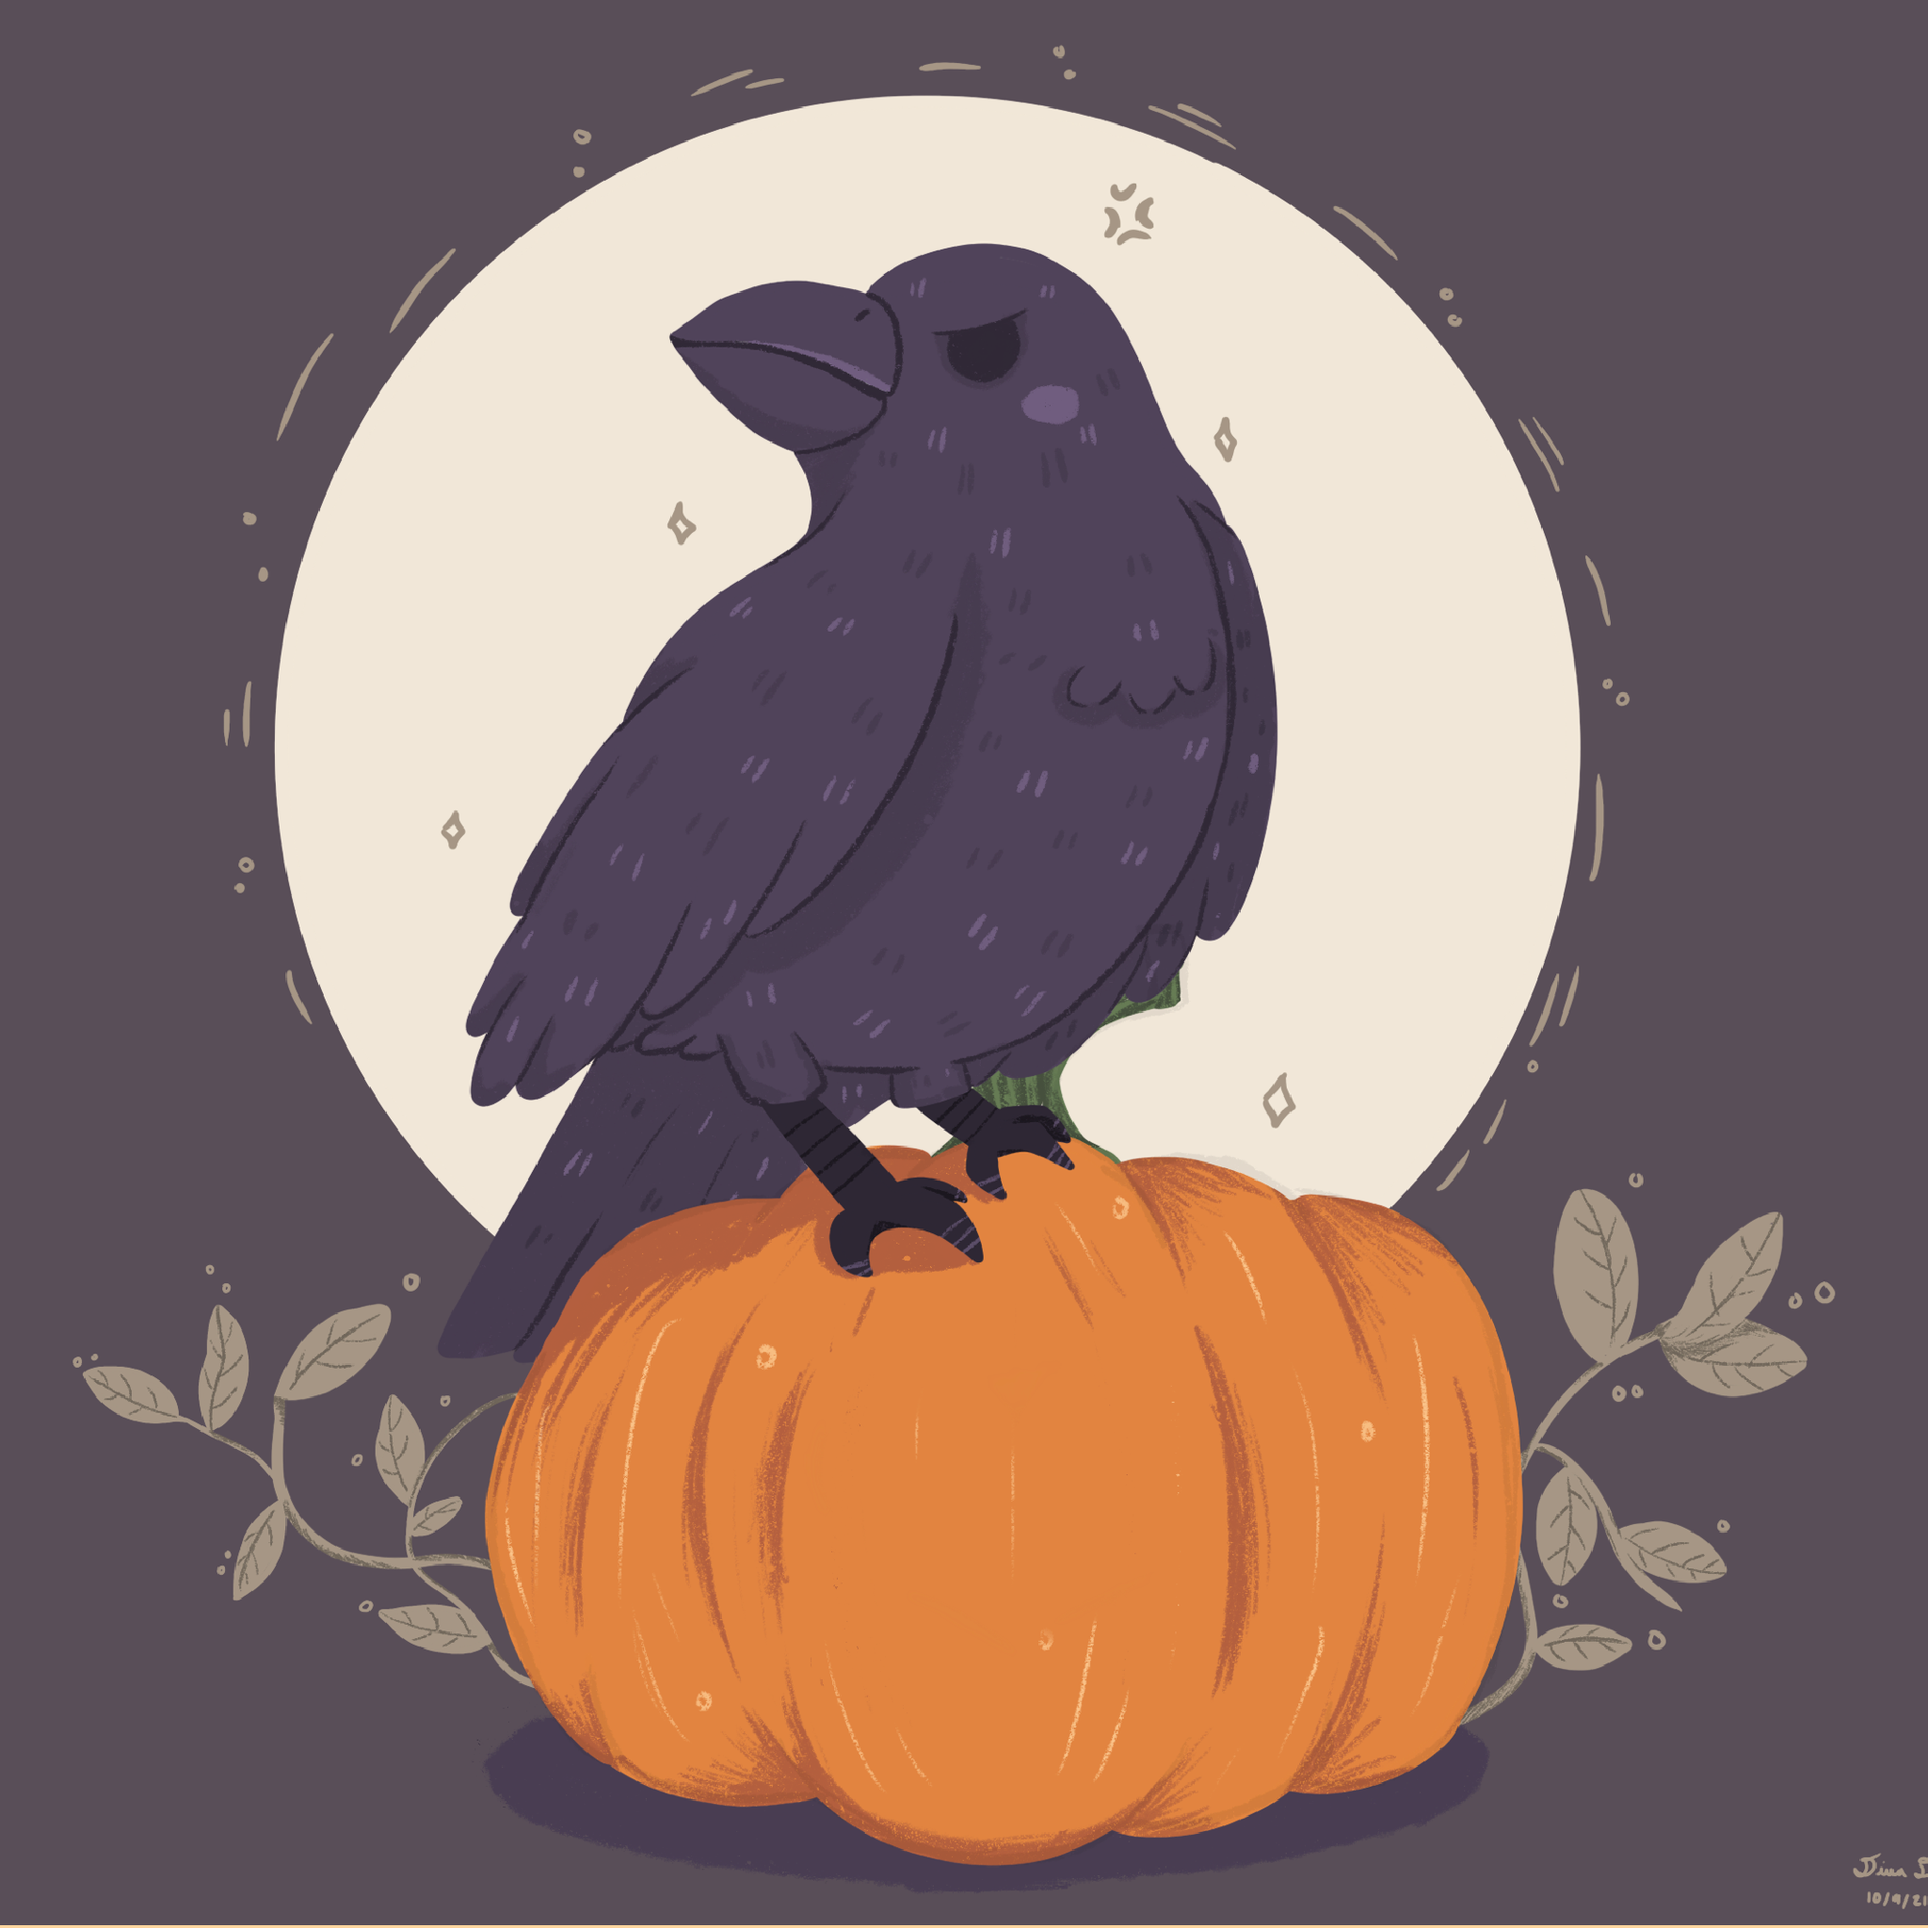
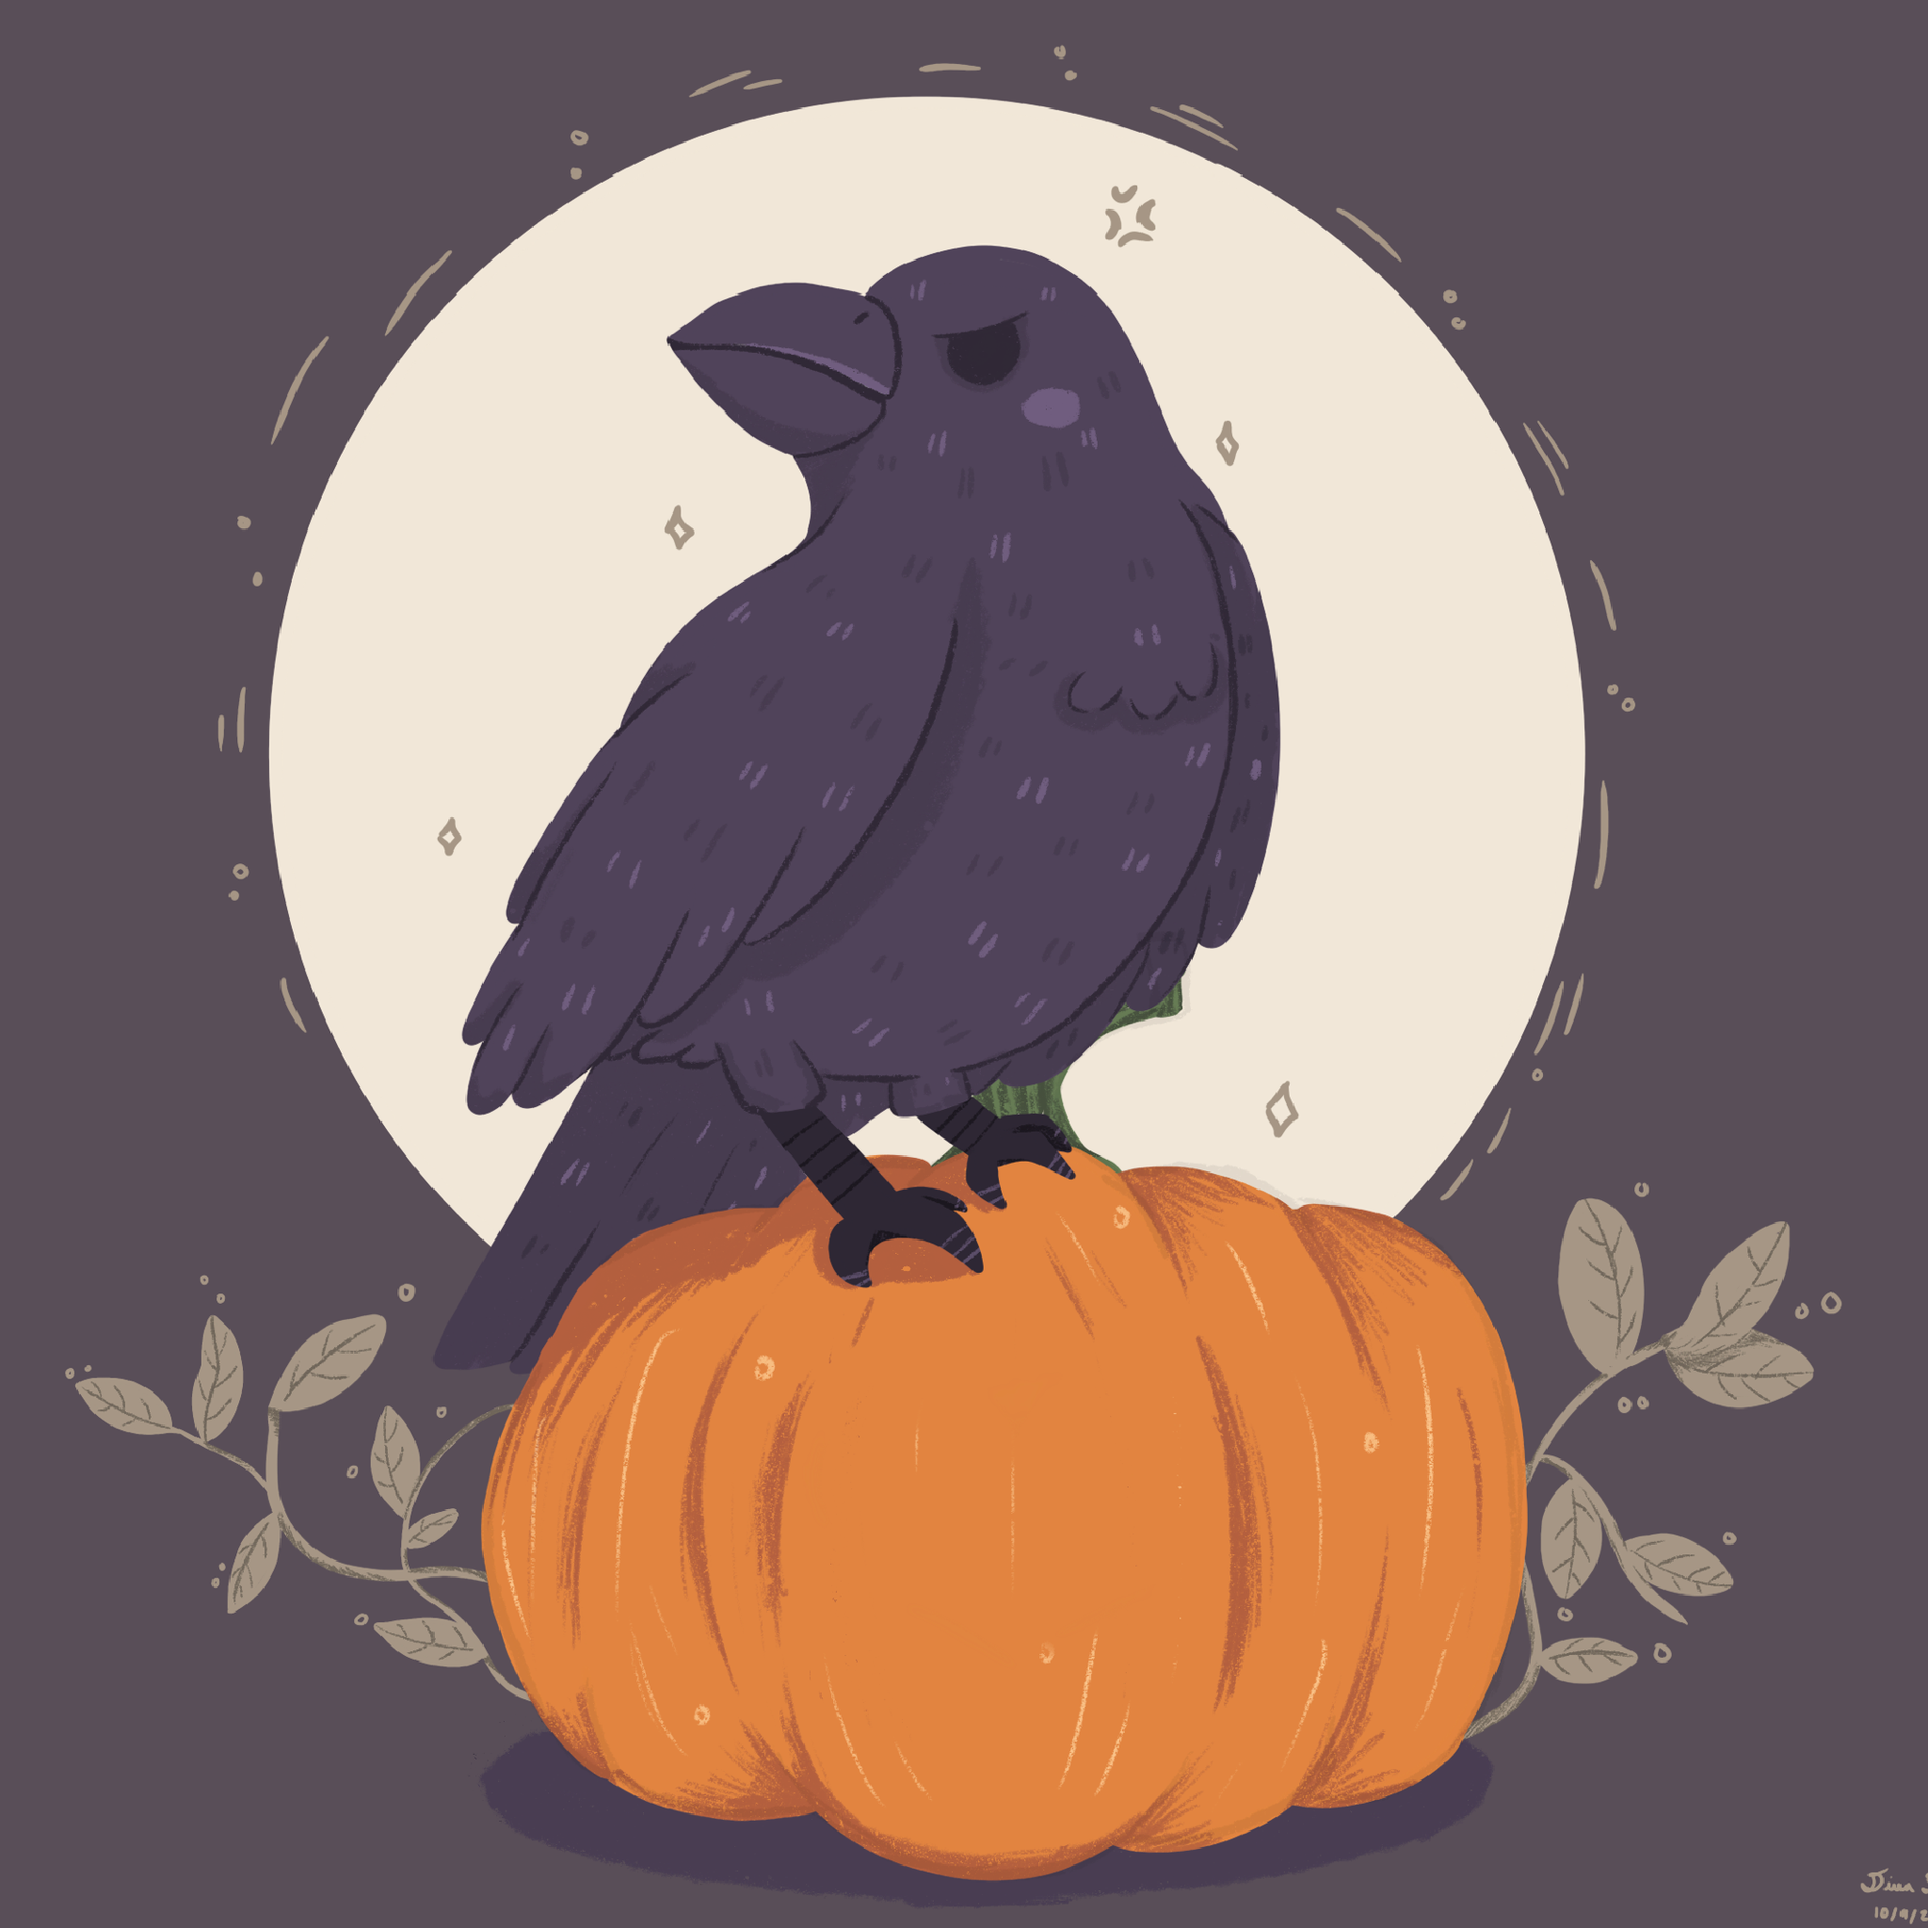
fixed leaves

diff --git a/index.html b/index.html
@@ -37,7 +37,7 @@
   </head>
   <body>
     <!-- nav -->
-    <header class="py-2 shadow p-3 mb-5" style="z-index: 3">
+    <header class="py-2 shadow p-3 bgimage-leaves h-auto" style="z-index: 3;background-color: #1c1c1c;">
       <nav
         class="navbar py-2 border-top-0 border-left-0 border-right-0 border-bottom border-warning navbar-dark navbar-expand-lg h-auto fixed-top py-2 text-uppercase"
         style="background-color: #1c1c1c; opacity: 90%"
@@ -96,7 +96,7 @@
               <li
                 class="nav-item border border-top-0 border-bottom-0 border-left-0 border-warning px-4"
               >
-                <a class="nav-link active" aria-current="page" href="#"
+                <a class="nav-link active" aria-current="page" href="#contact"
                   >Contact</a
                 >
               </li>
@@ -228,7 +228,7 @@
     <!-- Hobbies -->
 
     <section
-      class="sec pt-2 pb-5"
+      class="sec pt-2 pb-5 h-auto bgimage-leaves"
       style="background-color: #1c1c1c;"
       id="hobbies"
     >
@@ -328,7 +328,7 @@
 
     <section
       class="sec p-1 py-5"
-      style="background-color: #f9f9fa"
+      style="background-color: white"
       style="z-index: 3"
       id="projects"
     >
@@ -373,9 +373,9 @@
       </section>
        
       <!-- Art  -->
-
+<!-- <img class="bg-image bgimage-leaves h-auto" src="img/squiggle.png" alt=""> -->
       <section
-      class="sec pt-2 pb-5"
+      class="sec pt-2 pb-5  bgimage-leaves h-auto"
       style="background-color: #1c1c1c; z-index: 3"
       id="artwork"
     >
@@ -399,79 +399,78 @@
           </div>
         </div>
       </div>
-      <hr class="border-warning" >
       <!-- slide  -->
-      <div class="container">
-        <div class="row rounded-4 p-5 " style="background-color:#2b2b2b;">
+      <div class="container pb-5">
+        <div class="row rounded-4 p-5 " style="background-color:#2b2b2b;opacity: 90%;">
           <div class="owl-carousel owl-theme border border-top-0 border-bottom-0 border-warning" style="color: white;">
             <div class="item">
-              <div class="card  border-0 bg-transparent shadow p-3 mb-5 bg-white rounded text-uppercase text-light border-warning" style="width: 15rem;">
+              <div class="card  border-0 bg-transparent shadow-lg p-3 my -3 bg-white rounded text-uppercase text-light border-warning text-center" style="width: 15rem;">
                   <img src="img/crow.png" class="card-img-top gallery" alt="...">
                   <div class="card-body">
-                    <h5 class="card-title text-center">Crow</h5>
+                    <a href="https://i.ibb.co/qmMHVf8/228064-F8-2-D55-46-D3-9499-1-AA3219060-B3.jpg" class="text-decoration-none text-light card-title fs-5" style=""><span class="text-warning">✦</span>Crow<span class="text-warning">✦</span></a>
                   </div>
               </div>
             </div> <!--item-->
 
             <div class="item">
-              <div class="card  border-0 bg-transparent shadow p-3 mb-5 bg-white rounded text-uppercase text-light border-warning" style="width: 15rem;">
+              <div class="card  border-0 bg-transparent shadow-lg p-3 my -3 bg-white rounded text-uppercase text-light border-warning text-center" style="width: 15rem;">
                   <img src="img/nkirby.png" class="card-img-top gallery" alt="...">
                   <div class="card-body">
-                    <h5 class="card-title text-center">Itashi Kirby</h5>
+                    <a href="https://i.ibb.co/NxG2HJS/A067-E02-E-EB58-4-F0-D-82-C1-A4201825-EB1-E.png" class="text-decoration-none text-light card-title fs-6" style=""><span class="text-warning">✦</span>Itachi Kirby<span class="text-warning">✦</span></a>
                   </div>
               </div>
             </div> <!--item-->
 
             <div class="item">
-              <div class="card  border-0 bg-transparent shadow p-3 mb-5 bg-white rounded text-uppercase text-light border-warning" style="width: 15rem;">
+              <div class="card  border-0 bg-transparent shadow-lg p-3 my -3 bg-white rounded text-uppercase text-light border-warning text-center" style="width: 15rem;">
                   <img src="img/skullknight.png" class="card-img-top gallery" alt="...">
                   <div class="card-body">
-                    <h5 class="card-title text-center">Skull Knight</h5>
+                    <a href="https://i.ibb.co/cgP1S0p/Untitled-Artwork-5.png" class="text-decoration-none text-light card-title " style=""><span class="text-warning">✦</span>SkullKnight<span class="text-warning">✦</span></a>
                   </div>
               </div>
             </div> <!--item-->
 
             <div class="item">
-              <div class="card  border-0 bg-transparent shadow p-3 mb-5 bg-white rounded text-uppercase text-light border-warning" style="width: 15rem;">
+              <div class="card  border-0 bg-transparent shadow-lg p-3 my -3 bg-white rounded text-uppercase text-light border-warning text-center" style="width: 15rem;">
                   <img src="img/kirk.png" class="card-img-top gallery" alt="...">
                   <div class="card-body">
-                    <h5 class="card-title text-center">Kirk "Dark Souls"</h5>
+                    <a href="https://i.ibb.co/TYGhzrc/906-BD75-B-C538-4954-886-A-B4-C0-E78-FFE2-E.jpg" class="text-decoration-none text-light card-title fs-5" style=""><span class="text-warning">✦</span>Kirk<span class="text-warning">✦</span></a>
                   </div>
               </div>
             </div> <!--item-->
 
             <div class="item">
-              <div class="card  border-0 bg-transparent shadow p-3 mb-5 bg-white rounded text-uppercase text-light border-warning" style="width: 15rem;">
+              <div class="card  border-0 bg-transparent shadow-lg p-3 my -3 bg-white rounded text-uppercase text-light border-warning text-center" style="width: 15rem;">
                   <img src="img/skullknightkirby.png" class="card-img-top gallery" alt="...">
                   <div class="card-body">
-                    <h5 class="card-title text-center">Kirby Skull Knight</h5>
+                    <a href="https://i.ibb.co/FB89pb6/F437-FA8-C-5-B0-B-43-D2-B502-08-B7-A5932706.jpg" class="text-decoration-none text-light card-title fs-5" style=""><span class="text-warning">✦</span>Kirby SK<span class="text-warning">✦</span></a>
                   </div>
               </div>
             </div> <!--item-->
 
             <div class="item">
-              <div class="card  border-0 bg-transparent shadow p-3 mb-5 bg-white rounded text-uppercase text-light border-warning" style="width: 15rem;">
+              <div class="card  border-0 bg-transparent shadow-lg p-3 my -3 bg-white rounded text-uppercase text-light border-warning text-center" style="width: 15rem;">
                   <img src="img/traditionallady.png" class="card-img-top gallery" alt="...">
                   <div class="card-body">
-                    <h5 class="card-title text-center">Traditional Lady</h5>
+                    <a href="https://i.ibb.co/QQ42nCy/CBD5661-F-151-E-47-AD-B9-D9-7-F7-DFE38-FE77-1-102-o.jpg" class="text-decoration-none text-light card-title fs-5" style=""><span class="text-warning">✦</span>Traditional Lady<span class="text-warning">✦</span></a>
                   </div>
               </div>
             </div> <!--item-->
 
             <div class="item">
-              <div class="card  border-0 bg-transparent shadow p-3 mb-5 bg-white rounded text-uppercase text-light border-warning" style="width: 15rem;">
+              <div class="card  border-0 bg-transparent shadow-lg p-3 my -3 bg-white rounded text-uppercase text-light border-warning text-center" style="width: 15rem;">
                   <img src="img/traditionalrocky.png" class="card-img-top gallery" alt="...">
                   <div class="card-body">
-                    <h5 class="card-title text-center">Traditional Husky</h5>
+                    <a href="https://i.ibb.co/t4J4xbn/EEF46-FAF-3821-4425-9-D7-E-09-C6312-C7-ACE-1-101-o.jpg" class="text-decoration-none text-light card-title fs-5" style=""><span class="text-warning">✦</span>Traditional Husky<span class="text-warning">✦</span></a>
                   </div>
               </div>
             </div> <!--item-->
 
             <div class="item">
-              <div class="card  border-0 bg-transparent shadow p-3 mb-5 bg-white rounded text-uppercase text-light border-warning" style="width: 15rem;">
+              <div class="card  border-0 bg-transparent shadow-lg p-3 my -3 bg-white rounded text-uppercase text-light border-warning text-center" style="width: 15rem;">
                   <img src="img/plagueknight.png" class="card-img-top gallery" alt="...">
                   <div class="card-body">
-                    <h5 class="card-title text-center">Plague Knight</h5>
+                    <a href="https://i.ibb.co/GCwZ33x/5-AF3-E2-DE-B700-4882-BC68-0-CEFA4-A5-BE04.jpg" class="text-decoration-none text-light card-title fs-5" style=""><span class="text-warning">✦</span>Plague Knight<span class="text-warning">✦</span></a>
                   </div>
               </div>
             </div> <!--item-->
@@ -480,8 +479,38 @@
         </div>
       </div>
       
-     <hr class="border-warning" >
       </section>
+
+
+      <!-- contact  -->
+
+      <section
+      class="sec p-1 py-5"
+      style="background-color: white"
+      style="z-index: 10"
+      id="contact"
+    >
+      <div class="container col-sm-12 d-flex justify-content-around my-2">
+        <div class="row">
+          <div class="col-12">
+            <h1
+              class="text-dark display-4 text-uppercase mt-5 mb-3 fw-lighter text-center"
+            >
+              Contact
+            </h1>
+
+            <!-- divider  -->
+
+            <img
+              style="width: 350px"
+              class="mb-5"
+              src="img/star-divider2.png"
+              alt=""
+            />
+          </div>
+        </div>
+      </div>
+
 
     <!-- Bootstrap -->
     <script

diff --git a/css/style.css b/css/style.css
@@ -19,24 +19,23 @@ header {
 
 .bg-image {
   width: 100%;
-  height: 100vh;
-  background: url("../img/hero-img.png");
+  height: 10vh;
+  position: relative;
+  top: 200px;
   background-repeat: no-repeat;
   background-position: center;
   background-size: cover;
-  margin-bottom: 100px;
 }
-/* .bgimage-leaves {
+.bgimage-leaves {
   background: url(../img/leaves.png);
   width: 100%;
-  height: 100vh;
-  position: absolute;
-  top: 30px;
-  left: 0;
+  height: 120vh;
+
   background-repeat: repeat;
   background-position: center;
   background-size: cover;
-} */
+  background-attachment: fixed;
+}
 
 .img-left {
   background: url(../img/leftleaf.png);
